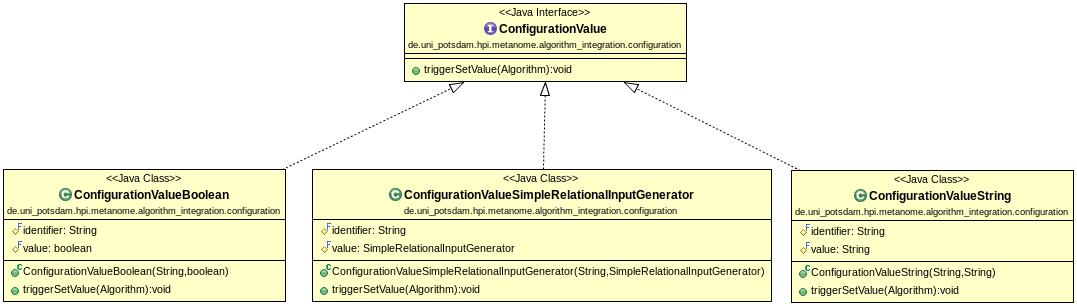
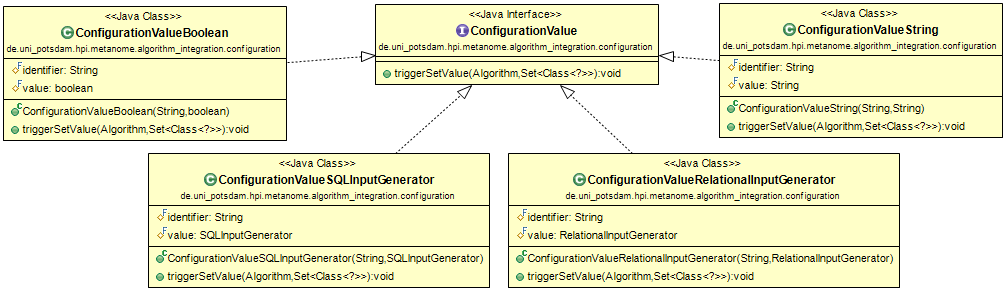
updated configuration value documentation

diff --git a/backend/src/main/java/de/uni_potsdam/hpi/metanome/result_receiver/ResultsHub.java b/backend/src/main/java/de/uni_potsdam/hpi/metanome/result_receiver/ResultsHub.java
@@ -1,0 +1,5 @@
+package de.uni_potsdam.hpi.metanome.result_receiver;
+
+public class ResultsHub {
+
+}
